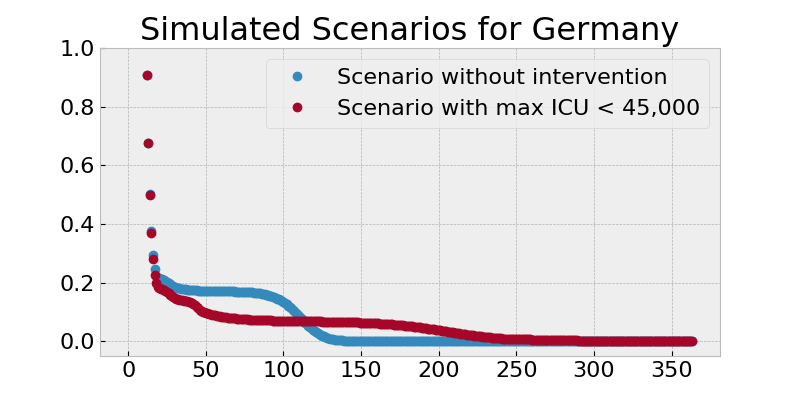
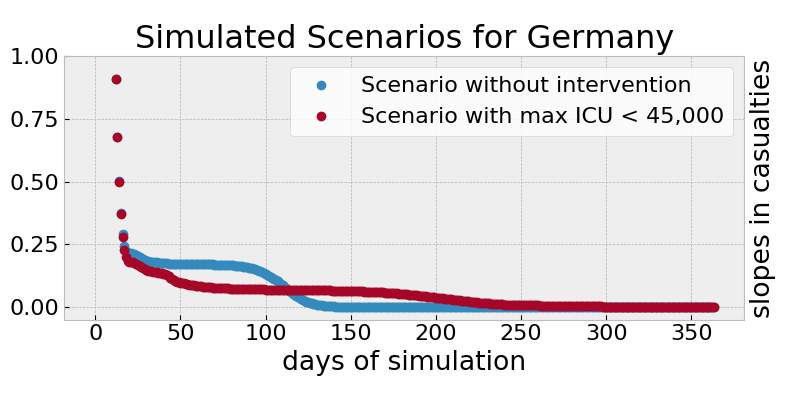
upds

diff --git a/deathgrowthrates.py b/deathgrowthrates.py
@@ -2,6 +2,7 @@ import numpy as np
 import pandas as pd
 import matplotlib.pyplot as plt
 import matplotlib
+import datetime
 
 
 font = {'family': 'normal',
@@ -17,6 +18,9 @@ path = 'data/csse_covid_19_data/csse_covid_19_time_series/' +\
 confirmed = pd.read_csv(path.format('Confirmed'))
 deaths = pd.read_csv(path.format('Deaths'))
 recovered = pd.read_csv(path.format('Recovered'))
+
+now = datetime.datetime.now()
+today = 'as of {0}. '.format(now.day) + now.strftime("%B")
 
 # checking for the growth of deaths and whether it phases out
 # by examining the slope in the logarithmic plot
@@ -38,7 +42,7 @@ for idx, mycountry in enumerate(mycountryl):
     # take the log of them
     lggda = np.log2(gda)
     # set the infs to zero
-    lggda[np.isneginf(lggda)] = 0
+    lggda[np.isneginf(lggda)] = np.NaN
     # the slope is the difference
     slopes = lggda[1:] - lggda[:-1]
     # use an average
@@ -53,15 +57,26 @@ for idx, mycountry in enumerate(mycountryl):
     ax.plot(slopes[-50:], 'o', label='daily value')
     ax.plot(avgslopes[-50:], 'o', label='two days average')
     ax.plot(nfdl[-50:], label='five days average')
+    ax.set_xlim(xmin=-2.5, xmax=52.5)
     if not (mycountry == 'China'):  # or mycountry == 'Korea, South'):
         ax.set_ylim(ymin=-.05, ymax=1.)
+    if idx == 6 or idx == 7:
+        ax.set_xlabel('the last 50 days')
+    if idx == 2 or idx == 5:
+        ax.set_ylabel('slopes in casualties')
+        ax.yaxis.set_label_position("right")
     ax.set_title(mycountry)
 ax = cfig.add_subplot(3, 3, idx+2)
-ax.plot(np.NaN, 'o', label='daily value')
-ax.plot(np.NaN, 'o', label='two days average')
-ax.plot(np.NaN, label='five days average')
-ax.axis('off')
-ax.legend(loc='center')
+ax.plot([1, 50], [1, 0], 'o', label='daily value')
+ax.plot([1, 50], [.9, .1], 'o', label='two days average')
+ax.plot([1, 50], [.95, .05], label='five days average')
+ax.plot(np.NaN, '.', label=today)
+# ax.axis('off')
+ax.legend(loc='center', facecolor='white')
+ax.set_xlabel('the last 50 days')
+ax.set_ylabel('slopes in casualties')
+ax.yaxis.set_label_position("right")
+ax.set_title('Legend')
 plt.tight_layout()
 plt.savefig('slopes-dsifc.png')
 plt.savefig('slopes-dsifc.pdf')
@@ -100,31 +115,57 @@ for x in range(N):
     exdgrwth.append(1000+100*expdecay[:x].sum())
 exdgrwth = np.array(exdgrwth)
 edslp, _, _ = getthelogslope(exdgrwth)
-plt.figure(2, figsize=(8, 4), dpi=100)
-plt.plot(xpgslp, 'o', label='exp growth')
-plt.plot(lngslp, 'o', label='constant growth')
-plt.plot(edslp, 'o', label='decaying growth')
-plt.title('Example Scenarios')
-plt.legend()
+cfig = plt.figure(2, figsize=(8, 4), dpi=100)
+ax = cfig.add_subplot(1, 1, 1)
+ax.plot(xpgslp, 'o', label='exponential growth')
+ax.plot(lngslp, 'o', label='constant growth')
+ax.plot(edslp, 'o', label='decaying growth')
+ax.set_title('Example Scenarios')
+ax.set_ylabel('slopes in casualties')
+ax.set_xlabel('days of simulation')
+ax.yaxis.set_label_position("right")
+plt.legend(facecolor='white')
 plt.savefig('slopes-examples.png')
 plt.savefig('slopes-examples.pdf')
 # plt.show()
 
-cfig = plt.figure(3, figsize=(8, 4), dpi=100)
-ax = cfig.add_subplot(1, 1, 1)
+cfig = plt.figure(3, figsize=(8, 8), dpi=100)
+ax = cfig.add_subplot(2, 1, 1)
 covidsimdata = pd.read_csv('CovidSIM-results-1.csv')
 covidsimdatanoi = pd.read_csv('CovidSIM-results-2.csv')
 deaths = covidsimdata[' Deaths'].values
 deathsnoi = covidsimdatanoi[' Deaths'].values
 covisim, _, _ = getthelogslope(deaths)
 covisimnoi, _, _ = getthelogslope(deathsnoi)
+
+icus = covidsimdata[' ICU'].values
+icusnoi = covidsimdatanoi[' ICU'].values
+
 ax.plot(covisimnoi, 'o', label='Scenario without intervention')
 ax.plot(covisim, 'o', label='Scenario with max ICU < 45,000')
-
 ax.set_ylim(ymin=-.05, ymax=1.)
-ax.legend()
-ax.set_title('Simulated Scenarios for Germany')
-plt.savefig('slopes-simulation.png')
-plt.savefig('slopes-simulation.pdf')
+ax.legend(facecolor='white')
+ax.set_title('Simulated Slopes for Germany')
+ax.set_ylabel('slopes in casualties')
+ax.yaxis.set_label_position("right")
+ax.set_xlabel('days of simulation')
+
+# plt.tight_layout()
+# plt.savefig('slopes-simulation.png')
+# plt.savefig('slopes-simulation.pdf')
+
+# cfig = plt.figure(4, figsize=(8, 4), dpi=100)
+ax = cfig.add_subplot(2, 1, 2)
+ax.plot(icusnoi, 'o', label='Scenario without intervention')
+ax.plot(icus, 'o', label='Scenario with max ICU < 45,000')
+ax.legend(facecolor='white')
+ax.set_ylabel('people needing intensive care')
+ax.yaxis.set_label_position("right")
+ax.set_xlabel('days of simulation')
+ax.set_title('Corresponding Need for ICUs')
+plt.tight_layout()
+plt.savefig('slopes-icus-simulation.png')
+plt.savefig('slopes-icus-simulation.pdf')
+
 
 plt.show()

diff --git a/README.md b/README.md
@@ -19,4 +19,4 @@ to produced the plots.
 
 ![Current values as of March 22nd](slopes-dsifc.png)
 ![Example Scenarios](slopes-examples.png)
-![Simulated Scenarios](slopes-simulation.png)
+![Simulated Scenarios](slopes-icus-simulation.png)
